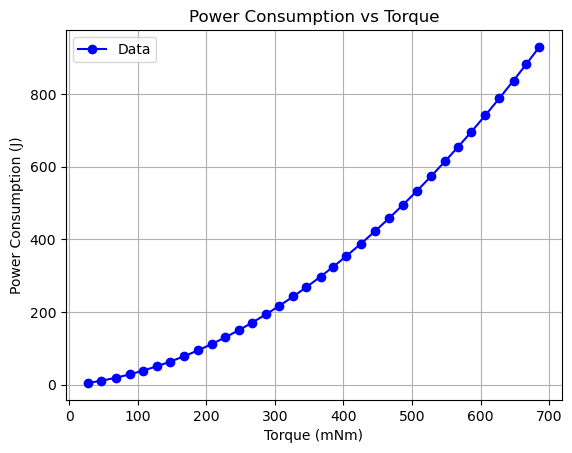
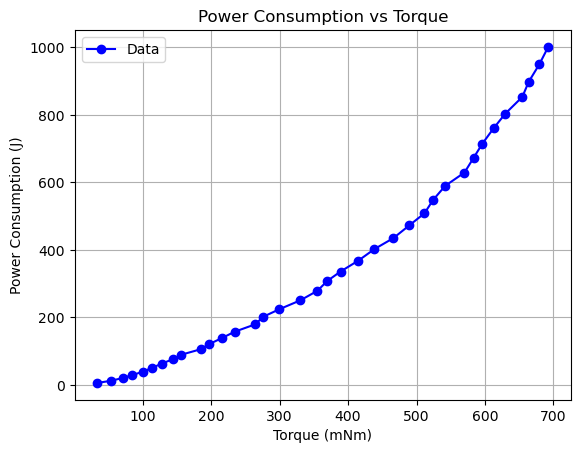
apply jitter to current input

diff --git a/scripts/theoretical.py b/scripts/theoretical.py
@@ -1,4 +1,4 @@
-# import numpy as np
+import numpy as np
 import matplotlib.pyplot as plt
 import math
 import time
@@ -237,6 +237,25 @@ def main_test(update_interval_ms, loop_time_multiplier):
         print(f"Efficiency: {eff}, ")
 
 
+def apply_jitter(value, percent):
+    """
+    Verilen value sayısını, ± percent aralığında rastgele oynar.
+    
+    Örnek: value = 100, percent = 0.1 ise, değer 90 ile 110 arasında bir
+    değere rastgele ayarlanır.
+    
+    Parametreler:
+      value   : Orijinal sayı
+      percent : Maksimum oynama oranı (örn. %10 için 0.1)
+    
+    Return:
+      Rastgele oynanmış değer.
+    """
+    # -percent ile +percent arasında rastgele bir oran belirlenir.
+    delta = np.random.uniform(-percent, percent)
+    return value * (1 + delta)
+
+
 def collect_data(update_interval_ms, loop_time_multiplier, current_step_per_sec):
     total_power_consumption = 0
     powers = []
@@ -261,7 +280,7 @@ def collect_data(update_interval_ms, loop_time_multiplier, current_step_per_sec)
 
         # akımı zamanla arttır
         try:
-            set_motor_current(motor_current_g + current_step_per_sec*sim_elapsed)        
+            set_motor_current(motor_current_g + apply_jitter(current_step_per_sec*sim_elapsed, 0.5))
         except ValueError:
             break
         update_motor(sim_elapsed)
@@ -278,11 +297,7 @@ def collect_data(update_interval_ms, loop_time_multiplier, current_step_per_sec)
 
 
 def main():
-    powers, torques, rpms, times, power_consumptions = collect_data(10, 10, 10)
-    print("Power vs Time")
-    print(*zip(powers, times), sep="\n")
-    create_and_save_graph(times, powers, "power_vs_time.png", "Power vs Time", "Time (s)", "Power (W)")
-
+    powers, torques, rpms, _, power_consumptions = collect_data(10, 10, 10)
     print("Power vs Torque")
     print(*zip(powers, torques), sep="\n")
     create_and_save_graph(torques, powers, "power_vs_torque.png", "Power vs Torque", "Torque (mNm)", "Power (W)")
